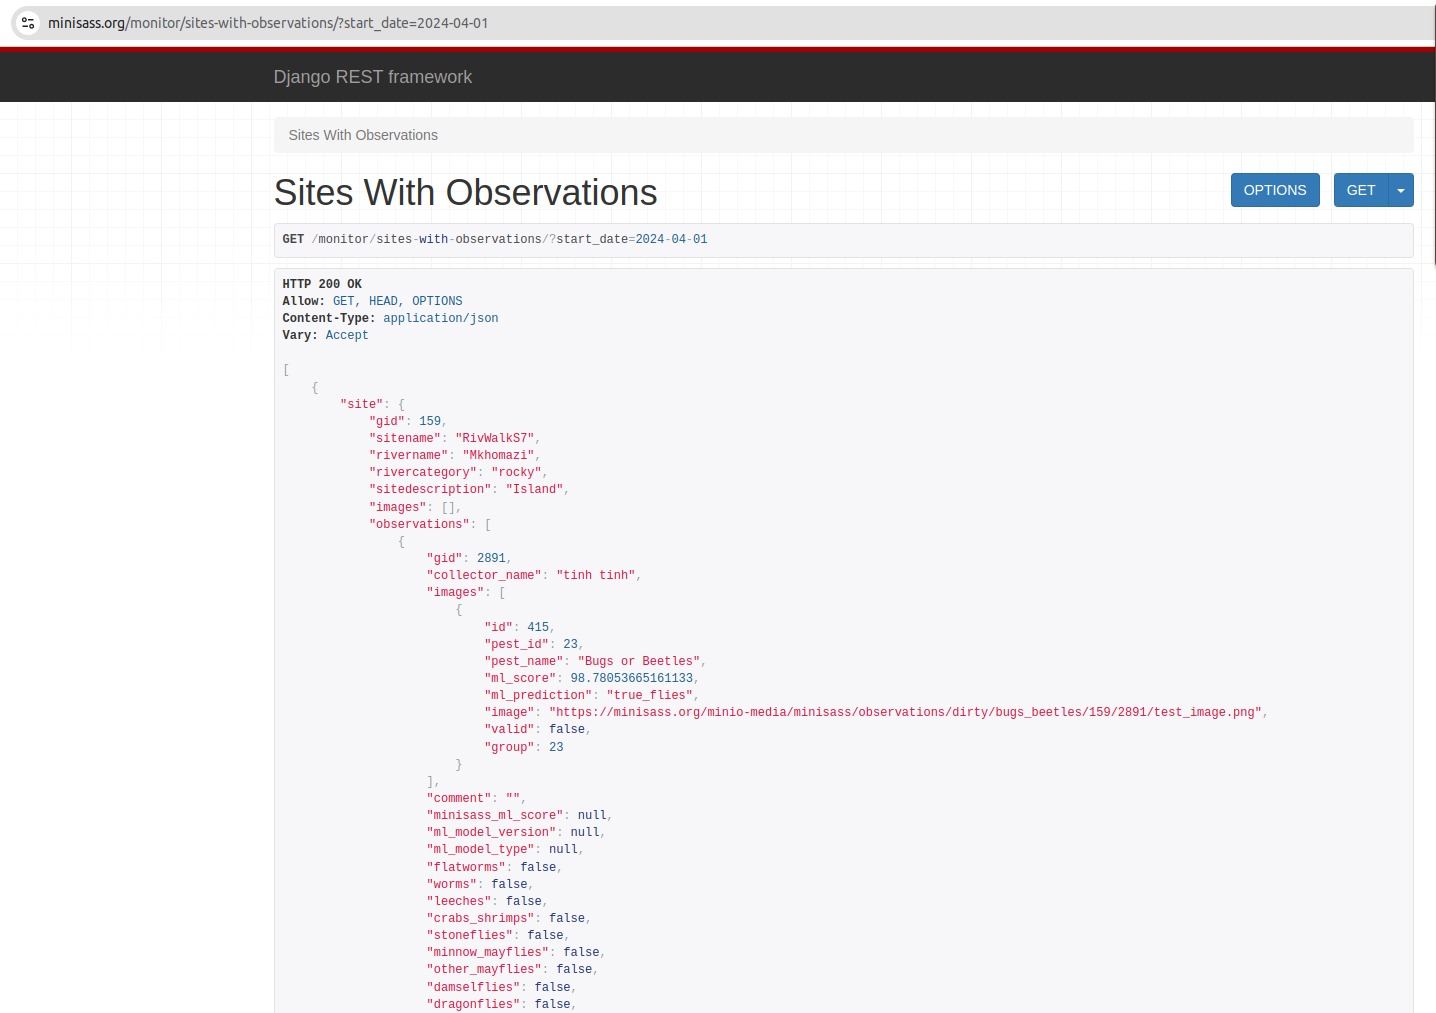
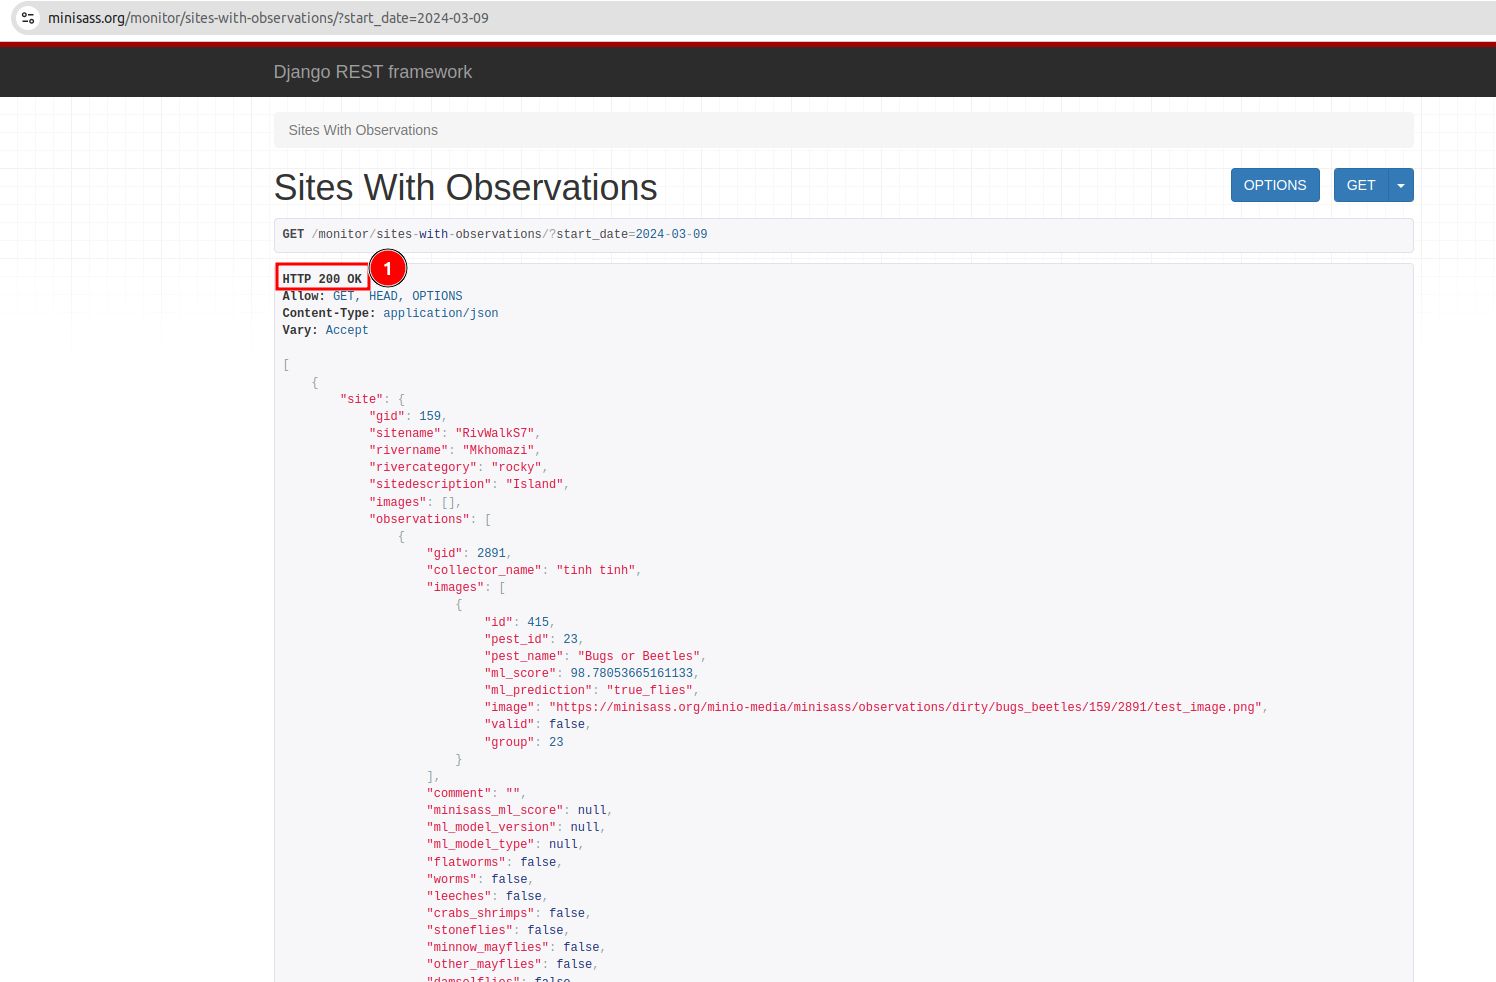
Add suggested points

diff --git a/docs/src/developer/3rd-party-api-access.md b/docs/src/developer/3rd-party-api-access.md
@@ -52,6 +52,8 @@ After choosing the Http Request, you will receive the following window.
 
     `https://minisass.org/monitor/sites-with-observations/?start_date=2024-04-13`
 
+    > Note: Ensure that the date is in the correct format (YYYY-MM-DD) to avoid errors.
+
 ### Make a GET Request
 
 Use your selected tool to perform a GET request to the constructed URL.
@@ -72,9 +74,57 @@ To check how to make request click on [request process](#2-create-a-new-request)
 
 - Once you send the request, the API will return the data in data body.
 
-    This is an example of data you will recieve after  sending the request via [Postman](#1-using-postman).
+    Here are examples of the responses you will receive after sending the request via [Postman](#1-using-postman).
+
+    ### 200 OK
+
+    **Request With a Specified Date:**
+
+    - The  API will return a list of sites with observations from the specified date.
+
+    - The URL should be in the following format:
+
+    `https://minisass.org/monitor/sites-with-observations/?start_date=2024-03-09`
 
     ![Request Body](./img/3rd-party-api-access-4.png)
+
+    1. **200 OK:** This status code indicates that the request was successful, and the response data will be returned in the body.
+
+    **Request Without a Specified Date:** If the start date is not specified or provided, the API returns a **200 OK** status code along with all available sites and observations.
+    
+    - The URL without date  will look like this:
+
+    `https://minisass.org/monitor/sites-with-observations`
+
+    ![Request Without Date](./img/3rd-party-api-access-16.png)
+
+    ### 400 Bad Request:
+
+     If the date is not provided in the correct `YYYY-MM-DD` format, you will receive a **404 Bad Request** error with an **error message**.
+
+    ![Error Message](./img/3rd-party-api-access-15.png)
+
+    1.  **400 Bad Request:** This status code indicates that the request was invalid or cannot be processed.
+
+    2. **error:**  This is the error message returned by the API. In our case, the error occurs due to an invalid date format. The correct format should be **YYYY-MM-DD**.
+
+    ### 500 Internal Server Error
+
+    ![500 Internal Server Error](./img/3rd-party-api-access-17.png)
+
+    1.**500 Internal Server Error:** The server returned a 500 Internal Server Error, indicating that the API is currently down and unable to process the request.
+
+    ### Here are the actions you can take after receiving a **200 OK** status code:
+
+    ### Site Image
+
+    The user can also download the site/observation image by clicking on the image URL provided in the response.
+
+    ![Site/Observation Image](./img/3rd-party-api-access-20.png)
+
+    Click on the 1⃣ `image` to open the image in your browser, where you can easily download it.
+
+    ![Site/Observation Image](./img/3rd-party-api-access-21.png)
 
     The user can also choose different response formats by clicking on the 1⃣ dropdown, such as JSON, XML, text etc.
 
@@ -104,9 +154,55 @@ The user can directly send the request using a browser by pasting the URL into t
 
 - Press Enter to send the request.
 
-- The browser will display the response in the browser window.
+- The browser will display one of the following responses in the browser window.
+
+### HTTP 200 OK
+
+**Request With a Specified Date**
+
+- The  API will return a list of sites with observations from the specified date.
+
+- The URL should be in the following format:
+
+`https://minisass.org/monitor/sites-with-observations/?start_date=2024-03-09`
 
 ![Browser Response](./img/3rd-party-api-access-9.png)
+
+1. **200 OK:** This status code indicates that the request was successful and the response body contains the requested data.
+
+**Request Without a Specified Date**
+
+- The API will return a list of all sites with observations.
+
+- The URL without date will look like this:
+
+`https://minisass.org/monitor/sites-with-observations`
+
+### HTTP 400 Bad Request
+
+If the date is not provided in the correct `YYYY-MM-DD` format, you will receive a **404 Bad Request** error with an error message.
+
+![400 Bad Request](./img/3rd-party-api-access-18.png)
+
+1. **400 Bad Request:** This status code indicates the request was invalid or couldn't be processed. The response body will include an **error message**, which in this case is **Invalid date format**. Please use **YYYY-MM-DD**.
+
+### HTTP 500 Internal Server Error
+
+![500 Internal Server Error](./img/3rd-party-api-access-19.png)
+
+1. **500 Internal Server Error:** The server returned a 500 Internal Server Error, indicating that the API is currently down and unable to process the request.
+
+### After receiving the 200 OK status code, the user will be able to perform the following actions:
+
+### Site Image
+
+The user can also download the site/observation image by clicking on the image URL provided in the response.
+
+![Site/Observation Image](./img/3rd-party-api-access-20.png)
+
+Click on the 1⃣ `image` to open the image in your browser, where you can easily download it.
+
+![Site/Observation Image](./img/3rd-party-api-access-21.png)
 
 User can also choose response format between JSON and api.
 
